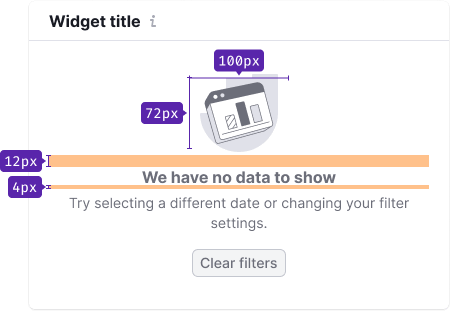
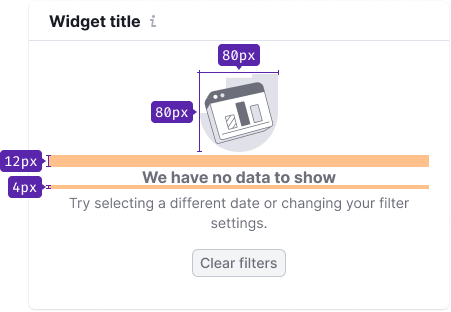
[widget-empty] fix guide

Changed region(s): [[0.4035, 0.1154, 0.6519, 0.2596], [0.3104, 0.3173, 0.4346, 0.4038]]

diff --git a/website/docs/components/widget-empty/widget-empty.md b/website/docs/components/widget-empty/widget-empty.md
@@ -20,7 +20,7 @@ Widget’s “empty” state usually includes the following:
 
 |                     | Description, styles                                                                        |
 | ------------------- | ------------------------------------------------------------------------------------------ |
-| Image in svg format | `margin-bottom: 12px; width: 100px; height: 72px;`                                         |
+| Image in svg format | `margin-bottom: 12px; width: 80px; height: 80px;`                                          |
 | Title               | Text with 16px size (`--fs-300; --lh-300;`), `--gray-500` color and `margin-bottom: 4px;`. |
 | Description         | Text with 14px size (`--fs-200; ----lh-200;`) and `--gray-500` color.                      |
 | Button (optional)   | Button with M size and `margin-top: 16px;`                                                 |
